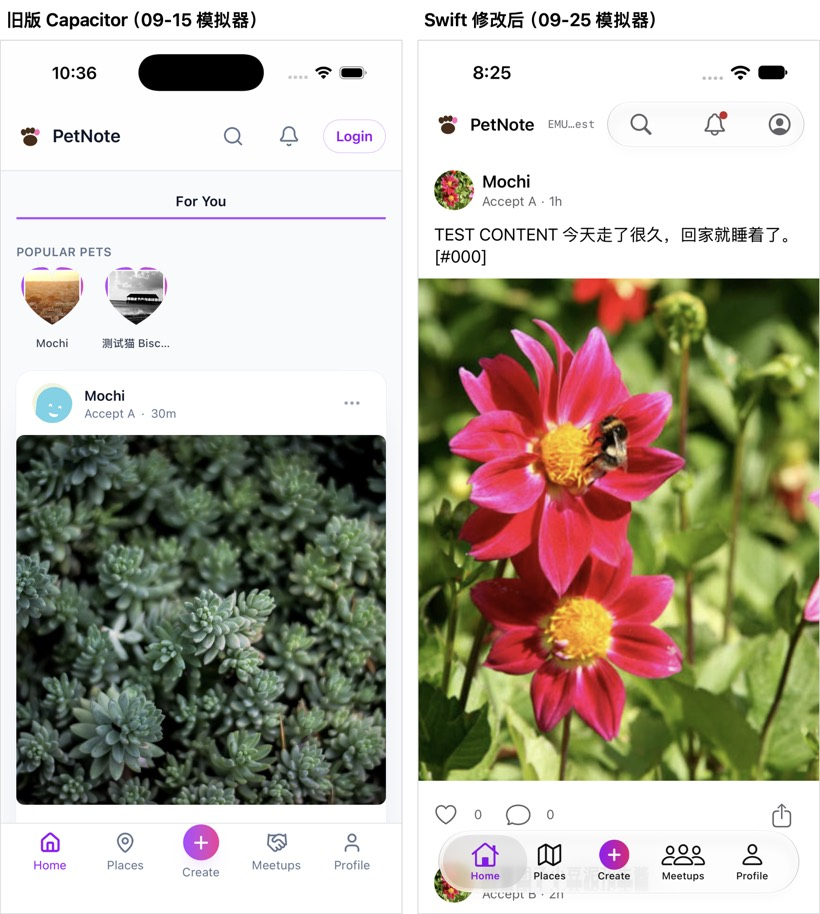
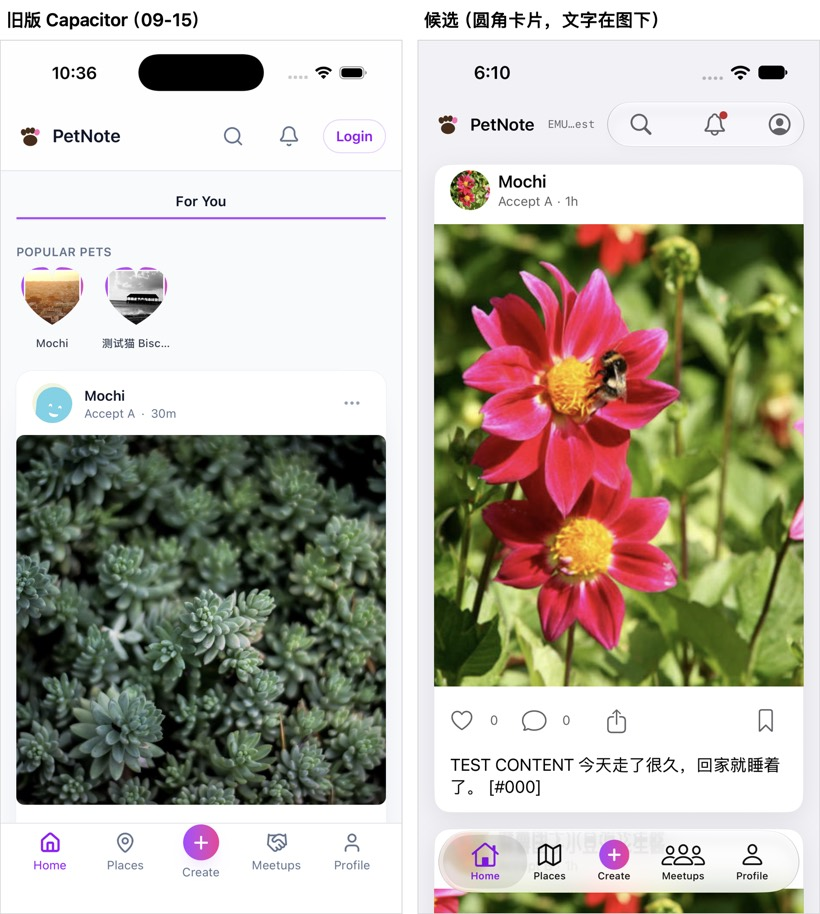
Record the de44ce5 candidate: what it holds, how it was verified, and where it stopped
The visual comparison now has every figure from de44ce5 (regression,
reduce motion and transparency, SE at default and AX5, light and dark,
edge states, cold starts, package and icon audit), the touch figures
from the instrument-only commits after it, Apple's answer on unselected
tab colours, and the share button findings. STATUS gets the candidate,
the install that stopped at a locked phone, and what to look at.

diff --git a/ios-native/docs/visual-parity.md b/ios-native/docs/visual-parity.md
@@ -1,69 +1,85 @@
-# 视觉对照：旧版 PetNote 与 Swift 版（2026-09-25）
+# 视觉对照：旧版 PetNote 与 Swift 版（2026-09-26，候选 `de44ce5`）
 
-依据的旧版资源：旧版分支 `feature/ios-polish-round2` 上的原文件（`public/paw-icon.svg`、`src/components/PawIcon.tsx`、Capacitor 的 `AppIcon`/`Splash`/`LaunchScreen.storyboard`、`BottomNav.tsx`、`Navbar.tsx`、`PostActions.tsx`、`PostIdentity.tsx`、`timeAgo.ts`），以及 09-15/16 在模拟器上截的旧版画面（`PetNote-review-20260908/evidence/`）。
+依据的旧版资源：旧版分支 `feature/ios-polish-round2` 上的原文件（`public/paw-icon.svg`、`src/components/PawIcon.tsx`、`AuthShell.tsx`、`PostCard.tsx`、`PostActions.tsx`、`PostIdentity.tsx`、`BottomNav.tsx`、`Navbar.tsx`、`timeAgo.ts`，以及 Capacitor 的 `AppIcon`、`Splash`、`LaunchScreen.storyboard`），加上 09-15/16 在模拟器上截的旧版画面（`PetNote-review-20260908/evidence/`）。
+
+本轮按你 09-26 的决定恢复了登录外壳、圆角卡片、操作栏上的收藏和顶栏头像；09-25 修过的 Logo、启动画面、图标风格、帖子头部仍保留。
 
 ## 1. 之前说的“原图逐像素一致”只覆盖了什么
 
-只覆盖了 **App 图标这一个文件**：Swift 包里编译出来的 120×120 图标，等于图标源图缩小后的结果；而这张源图和旧版 Capacitor 的图标是同一个文件（md5 `91a40ffb…`，从 09-10 起没换过）。
+只覆盖 **App 图标这一个文件**：包里编译出的 120×120 图标，等于图标源图缩小后的结果。这张源图和旧版 Capacitor 的图标是同一个文件（md5 `91a40ffb…`，从 09-10 起没换过）。
 
-它**没有**覆盖：手机桌面上实际显示的样子、启动画面、App 里的品牌 Logo、任何界面图标。这几项当时都没有核对，不能从“图标一致”推出来。
+它**不覆盖**手机桌面上实际显示的样子、启动画面、App 内 Logo、界面图标。
 
-## 2. 你点名的三处
+## 2. 桌面图标
 
-### 桌面图标
-- 源文件、声明方式（单张 1024、不透明、只有默认外观）两边完全一样，Swift 包里确实带着这张图。
-- 你手机上这个 Swift App **在 09-22 之前装过两次没有图标的版本**（09-18 的原型、09-20 的 `4ba1c57`，图标是 09-22 才加进工程的）。iOS 覆盖安装时有时会沿用旧的图标缓存。
-- 我没有截手机桌面（会拍到别的 App），所以**不知道你看到的具体是什么**。需要你告诉我：Swift 版的图标是（a）空白或灰色的默认图标，还是（b）也是爪印，只是看起来和旧版不一样。如果是（a），重启一次手机通常就会刷新。
+- **最终包的图标配置**（`de44ce5` 的审计包里核对）：包里 `Info.plist` 的图标名是 `AppIcon`，图标文件列的是 `AppIcon60x60`；`Assets.car` 里有从 `AppIcon-1024.png` 生成的 1024×1024 图标；包里 120×120 的图标和源图缩小后逐像素一致（平均差 0.00/255，最大差 0）。源图 md5 `91a40ffb…`，和旧版 Capacitor 分支上的 `AppIcon-512@2x.png` 相同。品牌爪印也在包里（矢量加三个尺寸）。
+- **包里的配置和资源都对；你看到新旧图标不一样，原因还没确定。** 一个候选原因是：这台手机上的 Swift App 在 09-22 之前装过两次没有图标的版本（09-18 的原型、09-20 的 `4ba1c57`），iOS 覆盖安装后有可能继续显示缓存里的旧图标。这只是推测，没有验证，重启手机也不算修复。我没有截手机桌面（会拍到别的 App），不会用卸载清数据的办法来“解决”。
+- 需要你告诉我：装上这个候选以后，Swift 版的图标是空白、灰色的默认图标，还是爪印但看着不一样。
 
-### App 内 Logo、启动画面（有明确偏离，已修）
-| | 旧版 | 手机上现在的 Swift（`931d911`） | 修改后 |
-| --- | --- | --- | --- |
-| 品牌 Logo | 棕色爪印、粉色趾头（`PawIcon`） | **换成了系统的紫色爪印符号**，不是品牌 Logo | 原 SVG 逐字节复制进来（md5 `8624d4af…`），原色显示、不着色 |
-| 首页顶栏 | 爪印 + 「PetNote」在左 | 只有文字 | 爪印 28 点 + 名字，在左；无障碍大字号下只显示爪印（名字留给读屏和长按放大），否则会把右边的按钮挤进溢出菜单 |
-| 启动画面 | 白底，爪印居中 | **空白**（工程里没有启动图） | 白底爪印，大小位置和旧版量过一致（153×173 点，中心 190,442） |
-| App 内闪屏 | 爪印 64 点 + 渐变「PetNote」 | 紫色系统爪印 + 转圈 | 爪印 64 点 + 渐变「PetNote」 + 转圈 |
-| 首页空状态 | 爪印 36 点 | 灰色系统爪印 | 爪印 36 点 |
+## 3. 启动画面
 
-启动画面有一个要说明的地方：旧版那张启动图是 2732×2732 的大画布，**iOS 拒绝显示它**。模拟器日志里写着超过了启动画面的 25 MB 上限，结果 App 启动时是黑屏。所以我没有照搬那张图，而是用同一个爪印文件，按旧版显示出来的大小和位置重新排版。旧版 App 在 iOS 27 上可能也有同样的黑屏问题，这一点我没有在你手机上验证。
+- **旧版启动图为什么不能照搬**：iOS 27.0 模拟器的系统日志（SplashBoard 进程）在每次启动时报错：`XBLaunchStoryboardErrorDomain` code 6，“Estimated size (29900800) is over limit (25000000)”。随后把 App 列入启动快照黑名单（“rejected due to the app being denylisted”），启动时显示黑屏。
+- **资源规格**：旧版 `Splash.imageset` 在 1x、2x、3x 三个位置放的是同一张 2732×2732 的 RGB PNG（每份 129 KB），`LaunchScreen.storyboard` 用一个铺满屏幕（aspect-fill）的图片视图显示它。按 2732 × 2732 × 4 字节算，解码后约 29.9 MB，和报错里的估算值一致。
+- 旧版 App 在你手机上会不会也遇到这个问题，**没有验证，不下结论**。
+- **现在的做法**：不改动、不重新导出那张大图。用原样复制进来的品牌爪印 SVG，在系统背景色上居中显示（浅色白底、深色黑底）。爪印的大小和位置按旧版的效果量过：棕色部分都是 153×173 点，中心都在 (190, 442)。
+- **冷启动**（`de44ce5` 的构建，模拟器）：浅色冷启动 3 次、深色 1 次，每次连续抓帧。浅色是白底爪印 → App 内闪屏（爪印加渐变字）→ 首页转圈 → 首页；深色是黑底爪印 → 首页转圈 → 首页（这次没抓到 App 内闪屏，恢复登录比抓帧间隔快）。都没有出现黑白闪屏。代码里没有人为等待，闪屏只在恢复登录状态期间出现。之前固定白底的启动画面，在深色模式下会先白一下，这一轮已改。对照图：[启动画面](visual-parity/launch.jpg)（旧版布局、候选浅色、候选深色）。
 
-### 界面图标（有明确偏离，已修）
-| | 旧版 | 手机上现在的 Swift | 修改后 |
-| --- | --- | --- | --- |
-| 底栏 | 线条图标，选中紫色；中间「Create」是紫粉渐变圆形「+」 | 系统自动换成**实心黑色**；中间是黑色方块「Post」 | 线条图标，选中紫色；渐变圆形「+」；文字「Create」（中文「发布」不变） |
-| 顶栏按钮 | 搜索、铃铛，灰色 | 铃铛、搜索、账号，**紫色**，顺序不同 | 搜索、铃铛、账号，灰色 |
-| 帖子操作 | 线条图标，一种灰；已赞**红色**实心心形 | 偏小；已赞**紫色** | 放大到同一尺寸、同一种灰；已赞红色实心（只有心形变红，旁边数字保持灰色，保证文字对比度） |
-| 评论图标 | 圆形气泡 | 方形气泡 | 圆形气泡 |
-| 帖子头部 | 「Accept A · 30m」 | 只有「31 min, 44 sec」，而且每秒刷新一次 | 「Accept A · 13m」，时间格式逐条照旧版（中文「13分钟前」） |
+## 4. 这一轮对照（左旧版，右候选，模拟器截图）
 
-同屏对照图：[首页](visual-parity/feed.jpg)、[登录页](visual-parity/login.jpg)、[启动画面](visual-parity/launch.jpg)（左边旧版，右边修改后，都是模拟器）；[默认字号和最大字号](visual-parity/feed-ax5.jpg)。测试版顶栏中间那个缩短的「EMU…est」是测试环境标签，正式版里没有。
+| 位置 | 旧版 | 候选 |
+| --- | --- | --- |
+| 登录、注册、找回密码 | 紫粉渐变背景，白色圆角卡片，小爪印 +「PetNote」，标题，表单 | 同样的结构，三页共用一个外壳。渐变延伸到状态栏和键盘下面，卡片留在安全区内，可以滚动，键盘弹出时由系统保证输入框可见，跟随动态字体放大。登录标题用网页原文（「Log in to your account / 登录你的账号」）。注册页和找回密码页保留系统导航栏和返回手势，不重复显示栏上的标题 |
+| 首页和宠物主页的帖子 | 灰底上的白色圆角卡片；头部 → 图片 → 操作栏 → 文字 | 同样的结构（16 点圆角、细边框、淡阴影，深色模式下是深灰卡片）；详情页是帖子自己的整页，保持整页宽 |
+| 帖子操作栏 | 心形、评论、分享在左，书签在右；已赞红色实心、已收藏紫色实心 | 同样的布局和状态。收藏和详情页「…」菜单里的收藏共用一份状态，每页批量读取一次 |
+| 顶栏账号入口 | 显示自己的头像 | 显示自己的头像；没有头像、头像加载失败时显示占位图（DiceBear 生成的 SVG 默认头像这个 App 画不了，也按“没有头像”处理） |
 
-## 3. 分类
+对照图（候选一侧都是 `de44ce5` 上截的）：[首页](visual-parity/feed.jpg)、[登录页](visual-parity/login.jpg)、[收藏前后](visual-parity/saved.jpg)、[深色模式](visual-parity/dark.jpg)、[小屏 iPhone SE 的默认字号和最大字号](visual-parity/small-screen.jpg)、[启动画面](visual-parity/launch.jpg)。测试版顶栏中间缩短显示的「EMU…est」是测试环境标签，正式版里没有。
 
-**保持一致**：App 图标文件；品牌 Logo（修改后）；品牌色（紫 `#9810FA`、粉 `#E60076`，从左到右渐变）；底栏五项的顺序和名称；顶栏布局和按钮顺序；帖子头部的内容和时间格式；帖子操作的图标风格和已赞状态；启动画面。
+## 5. 底栏未选中项的颜色：苹果答复 iOS 26 起不再支持自定义
 
-**换成了系统做法**（原因）：
-- 分享图标：纸飞机 → 系统分享图标。它打开的是 iOS 自己的分享面板，iOS 就用这个图标。
-- 底栏：整条白底 → iOS 26 系统的悬浮玻璃底栏。**未选中项的颜色由系统决定**，是黑色；我试了两种设置方法都不生效，已实测。系统画的返回箭头也是黑色。
-- 聚会图标：握手 → 三个人。系统图标库里没有握手。
-- 地点图标：地图钉 → 折叠地图。系统的钉子图标一个太细，另一个看起来像游戏摇杆。
-- 登录页的 English/中文 切换 → 在 iOS 设置里单独给这个 App 设语言。
-- 闪屏的呼吸动画 → 系统转圈。一直循环的动画会让自动化测试永远等不到界面静止。
+- 旧版未选中项是灰色，候选是**黑色**（实测像素 14,14,14），顶栏和帖子上我们自己画的图标是灰色 `#636366`。影响是：底栏的黑色图标和文字，比页面上其他图标重一些，见 [收藏前后](visual-parity/saved.jpg) 的底部。选中项的紫色是能设置的，已经设了。
+- **接口还在**：`UITabBar.unselectedItemTintColor`（iOS 10 起）；`UITabBarItemAppearance.normal.iconColor` 和 `titleTextAttributes`（iOS 13 起）。iOS 27 SDK 的头文件里没有标注不可用；SwiftUI 没有设置未选中颜色的修饰符。
+- **我试过的做法**：在底栏创建之前，用外观代理设置这两个属性，在当前的 SwiftUI `TabView` 下都没有生效。
+- **苹果的说法**（开发者论坛，苹果开发者技术支持 DTS 工程师的答复，原文）：
+  - 2025 年 11 月：“Setting the `unselectedItemTintColor` isn't compatible with Liquid Glass tab bars. We recommend you move away from the `UIAppearance` APIs.”（[thread 793700](https://developer.apple.com/forums/thread/793700)）。同一帖里另一位开发者用 UIKit 的 `UITabBarController` 也复现了：iOS 18.5 上未选中是设定的颜色，iOS 26.0 上是黑/灰。
+  - 2026 年 3 月：“As of iOS 26, customization of unselected tab items is no longer supported, instead you can apply a tint color for selected item.”（[thread 818449](https://developer.apple.com/forums/thread/818449)）
+  - 所以这一条不是我实现得不对，而是 iOS 26 起的新底栏（Liquid Glass）不接受未选中颜色。依据是苹果工程师在论坛上的答复，不是正式文档；iOS 27 上我没有找到新的接口。
+- **没有做的**：没有用私有 API，没有去修改视图层级里的系统底栏，也没有为了颜色重写导航。
+- **剩下的选择**（需要你决定，我建议第一种）：
+  1. **保留系统默认**。这是 iOS 26 起所有用系统底栏的 App 的样子，选中项仍是品牌紫色。
+  2. 自己画一个底栏代替系统的。颜色能完全按旧版，但要自己补上系统底栏白送的东西（最大字号、VoiceOver、滚动时收起等），属于重做导航，不在这次授权范围内。
+  （还有一个办法本来是让整个 App 退回旧版系统外观，即 `UIDesignRequiresCompatibility`。苹果文档写的是“Temporarily use this key…”和“The system ignores this key when you build for iOS 27 or later”（[文档](https://developer.apple.com/documentation/bundleresources/information-property-list/uidesignrequirescompatibility)）。我们用 iOS 27 SDK 构建，所以这个办法用不了。）
 
-**还没做完的占位，或者和旧版不一样、需要你决定的**：
-1. **登录页外壳**：旧版是紫粉渐变背景、白色卡片、「Log in to your account」标题、输入框里的图标、显示密码的小眼睛、Google 按钮。Swift 现在只有一张白底表单。Google 按钮要等 Google 登录接通（B2）。
-2. **帖子卡片样式**：旧版是灰底上的圆角卡片，文字在图片**下面**，卡片右上角有「…」；Swift 是整屏宽，文字在图片**上面**，「…」只在详情页有。
-3. **书签**：旧版在操作栏右边；Swift 收进了「…」菜单。点赞数：旧版在操作栏下面一行（「9 likes」），Swift 在心形旁边。我没找到当初这样改的理由记录。
-4. **顶栏右边**：旧版登录后显示你自己的头像，点它进个人页；Swift 是一个通用的头像图标，点开是账号菜单。
-5. **首页顶部**：「For You」标签和「人气萌宠」一行，代码在 `wip/feed-extras`，还没放回来（原因见 STATUS「仍未解决」第 2 条）。
-6. 主人名字：旧版可以单独点进主人主页；Swift 是点整行打开帖子。
+## 6. 还和旧版不一样、或者发现的问题
 
-## 4. 这批修改的状态
+- 点赞数和评论数显示在图标旁边；旧版在操作栏下面另起一行（「9 likes」）。
+- 帖子文字前没有加粗的主人名（头部已经有主人名，而且很多测试按帖子文字定位帖子）；旧版有。
+- 卡片右上角没有「…」菜单，只在详情页有；旧版每张卡片都有。
+- 品牌爪印是棕色，在深色背景上比较暗。旧版网页也一样；按你的要求不改颜色。
+- **原有问题**：宠物主页卡片上的心形按钮点了没有反应（代码里传的是空操作）。这个候选里没修。
+- **原有问题**：路由规则写的是宠物主页隐藏底栏，实际显示了底栏。测过：滚到底时最后一条帖子和它的视频都在底栏上方，能点到。
+- 首页顶部的「For You」和「人气萌宠」一行还没放回来（代码在 `wip/feed-extras`）。
+- **新发现的原有问题**：手指按在帖子的分享图标上慢慢往上拖，列表不动；快划正常。模拟器实测，同样一次 200 点的慢拖：从分享按钮开始，列表移动 0 点（测了两次）；从心形按钮或卡片旁边的空白开始，移动 190 点；从分享按钮快划，移动 528 点。慢拖之后也没有弹出分享菜单。分享按钮 09-26 之前就在操作栏里（在最右边），这次按网页挪到了评论旁边，所以更容易按到。原因还没查明，这个候选没有改它。点赞测试原来就是在屏幕正中慢拖，卡片改版后正好按在这个按钮上，已改成从卡片旁边的空白开始拖。
 
-- 在分支 `feature/ios-native-prototype` 上，没合并，**没装到你手机**。你手机上仍是 `931d911`，也就是上面“手机上现在的 Swift”那一列。
-- 单元测试 870 条全过，包括设计守卫、颜色对比度、中文字符串、新加的时间格式测试。
-- 完整回归一共跑了三轮，每一轮的失败都查到了原因再修，没有靠重跑关掉任何一条：
-  - 第一轮失败 8 条：6 条是这批改动自己造成的（最大字号下账号按钮被挤掉、4 条视频测试读不到探针、1 条测试还按旧名字「Post」找底栏）；1 条是我没启动上传替身服务；1 条是测试点到了另一只同名的 Mochi。
-  - 第二轮失败 5 条：还是导航栏空间不够。用元素树量出来：默认字号下正中位置只剩 26 点，被系统整个丢掉；最大字号下铃铛和账号被收进了「More」溢出菜单。于是把测试环境标签挪到正中，名字显示与否改由栏外判断。
-  - 第三轮（产品代码的最终版本）：143 条界面测试，18 条按设计跳过（真机专用，或需要先打开系统设置），失败 1 条。那条视频播放本身正常，是拍照取样时视频一半在底栏下面。已经带进现成的修正（`c25574e`），整个视频套件 14 条全过，日志里能看到它把视频从 439–942 点挪到了 212–715 点再拍。
-  - 需要打开系统设置的两条（减弱动态效果、降低透明度），打开设置后单独跑，都通过了，跑完已把设置恢复。
-- 没验证：深色模式和各档字号下的视觉，没有逐张用眼睛核对（自动化测试会检查文字有没有被截断、按钮够不够大、对比度够不够）；真机上的样子要装包之后才能看。
+## 7. 候选 `de44ce5` 的验证
+
+App 代码最后一次改动是 `39b0f25`；之后的 `168d0ae`、`e4390e2`、`de44ce5` 三个提交只改界面测试。下面除了“手指能点中的范围”（单独说明）以外，每一项都是在 `de44ce5` 上跑的，没有拿别的版本的通过结果来凑。
+
+- **完整回归**（`scripts/regression.sh all`，iPhone 17 模拟器 / iOS 27.0，本地测试后端，跑之前重启并重新灌了种子数据）：单元测试 883 条全过；界面测试执行 149 条，131 条通过，18 条按设计跳过，0 条失败。跳过的 18 条：16 条只在真机上跑，2 条（减少动效、降低透明度）要先改模拟器设置，见下一条。两个触控测量套件按脚本规定不在回归里，见“手指能点中的范围”。
+- **减少动效、降低透明度**：在模拟器上把这两个设置打开后单独跑，2 条都通过；跑完已经关回去。
+- **小屏和最大字号**：iPhone SE（375×667）在默认字号和最大字号下，顶栏里的账号按钮都在，没有被挤进「More」；最大字号下账号菜单能正常打开和使用。iPhone 17 上结果一样。
+- **浅色、深色逐屏**：登录、注册、找回密码、首页、点赞加收藏后、帖子详情、宠物主页，两种模式各截一遍，逐张看过。深色模式下，登录页和找回密码页上还不能点的灰色按钮，看起来和能点的按钮差别不大；能点时会变成紫粉渐变，还分得清。这是原有样式，这一轮没改。
+- **边缘状态**：翻页失败、刷新失败、很长的中文宠物名、没有帖子的宠物页，都截图看过。未登录就是登录页。没有头像的情况：首页顶栏测试确认没有头像时显示占位图，设了头像后显示头像，删掉头像后又回到占位图。
+- **收藏、头像、Create**：收藏按钮和 Create 的可点范围至少 44×44，读屏名称分别是「Save / Remove from saved」「Create」；账号入口的读屏名称是「Account」。这几项是按控件自己报告的范围检查的，不是手指实际能点中的范围。VoiceOver 实际怎么读，要你在手机上听。
+- **手指能点中的范围**：这是模拟器上的合成点击，不是真机手指。测量工具先用已知尺寸校准，通过了才出数。
+  - 账号头像按钮约 52 宽 × 44 高。高度落在工具误差（±0.2 点）以内，记为“未确认”，不记“合格”。和换头像之前一样。
+  - 心形约 79 × 56，评论宽约 75，都达标。
+  - 这组测量是在 `71cf366` 上跑的。`de44ce5` 之后的 `82cd223`、`71cf366` 两个提交只改了测量工具，App 代码和 `de44ce5` 完全相同。
+  - 改工具的原因：卡片改版后，工具里有两处还按旧布局写。一处是校准要求帖子文字在操作栏上面，所以第一次校准没通过，没有出数。另一处是找评论按钮右边界时点开了旁边的分享菜单，工具不会关，把评论宽度读成了 44。我逐点直接点过，评论按钮一直响应到它和分享按钮之间的空隙中间。
+- **底栏不挡内容**：宠物页滚到底，最后一条帖子的文字和视频都在底栏上方，视频的静音按钮能点到。首页有 210 条种子帖子，滚到最后一条没有专门测；首页上的测试都要求心形按钮完整露出、不在底栏下面才点。
+- **状态不回退**：点赞（包括连点五次、刷新、别的账号改了数、帖子被删）、收藏（操作栏和「…」菜单一致，重开 App 后仍然一致）、评论数、换账号不串状态，这些界面测试都通过；解除屏蔽的两处竞态由单元测试覆盖，也都通过。
+- **返回手势**：拖出一段再拖回去取消，评论框里的字还在；完整返回，回到首页。
+- **CI**：`de44ce5` 上 4 个检查全部通过（2 个 `ci`，2 个 `ios-native`）。之后只改测量工具的 `82cd223` 也是 4 个全过。
+- **装机包**：用 `de44ce5` 构建，`scripts/build-testcloud-package.sh --release-check` 退出码 0：44 项通过，0 项失败，0 项受阻，两条提醒。一条是这个测试包里也带着本地模拟器的配置文件（项目 `petnote-test`，之前的包也有）；另一条是签名描述文件 10 月 2 日到期，还剩 6 天。连的是 `petnote-devtest`，Bundle ID 是 `dev.local.petnote.native`，你的 iPhone 在描述文件里；包里没有私钥和服务端密钥；14 个故障注入开关一个都没有。正式版的包里没有任何测试开关，也没有非生产配置。审计过的包原样另存在 `build/pkg-de44ce5`（本地，不进仓库）。
+
+这一轮之前的几次结果，按时间顺序记在这里，不和上面混用：`e4390e2` 的完整回归有 4 条点赞测试失败，原因是测试还按旧卡片（文字在图上面）找心形按钮，找到的是下一张卡片的；按新布局改了配对以后还剩 3 条，原因是测试从屏幕正中慢拖，正好按在分享按钮上，列表没动（见第 6 节）。`de44ce5` 把这两处都改了，点赞套件 7 条全过，然后才跑上面的完整回归。

diff --git a/STATUS.md b/STATUS.md
@@ -4,7 +4,43 @@
 审查目录里的 `evidence/ios-native/acceptance-status.md` 是**第一阶段验收矩阵**（按
 `SWIFT-CLIENT-ACCEPTANCE.md` 条目编号记证据），不是状态表；功能迁移进度只记在这里。
 
-**更新** 2026-09-25 中午 · 分支 `feature/ios-native-prototype` · 装机候选 `931d911`（已装到手机；之后只有测试、CI 和文档的提交） · PR [#204](https://github.com/renrenmimi/PetNote/pull/204)（Draft，不合并）
+**更新** 2026-09-26 早上 · 分支 `feature/ios-native-prototype` · 组合装机候选 `de44ce5`（视觉修复 + 屏蔽名单修复；已构建并审计，**还没装到手机**，手机上仍是 `931d911`） · PR [#204](https://github.com/renrenmimi/PetNote/pull/204)（Draft，不合并）
+
+---
+
+## 组合装机候选 `de44ce5`（2026-09-26）
+
+**状态：包已构建、审计通过，还没装到手机。** 到安装这一步时查了一次手机：锁屏（`passcodeRequired: true`），连接状态是“已配对”而不是“已连接”。按你的要求停在这里，没有反复尝试。手机上仍然是 `931d911`。
+
+**这个候选里有什么**（和手机上的 `931d911` 比）：
+- 09-25 的视觉修复：旧版爪印 Logo（原文件逐字节复制）、用爪印排的启动画面、线条图标和统一的灰色、红色的已赞、帖子头部「主人 · 13m」、底栏「Create」。
+- 你 09-26 的四个决定：登录、注册、找回密码恢复渐变背景、白卡片和 Logo；首页和宠物页恢复圆角卡片、文字在图下；收藏按钮放回帖子操作栏；顶栏账号入口显示自己的头像，没有或加载失败才显示占位图。
+- 启动画面跟随系统深浅色，深色模式不再先白一下。
+- 屏蔽名单的两处修复（`d40376f`、`57821e4`，就是上面“另外几件事”里说的那两处）。
+- 另外只改测试的：视频测试的停靠修正、触控工具的校准修正、点赞测试按新卡片布局找按钮。候选之后又有两个只改测量工具的提交（`82cd223`、`71cf366`），不影响装机包。
+
+**验证（除了账号头像的触控测量，全部在 `de44ce5` 上跑，没有拿别的版本的结果来凑）**：完整回归单元测试 883 条全过，界面测试 149 条执行、131 条通过、18 条按设计跳过、0 条失败；减少动效、降低透明度 2 条通过；iPhone SE 默认字号和最大字号下顶栏按钮都在；浅色、深色逐屏看过；边缘状态看过；冷启动没有黑白闪屏；CI 4 个检查全过；装机包审计退出码 0，图标配置和资源核对无误。账号头像按钮手指能点中约 52 × 44（高度在工具误差内，记“未确认”），这项测在只改了测量工具的 `71cf366` 上，App 代码和 `de44ce5` 相同。逐项和截图见 [`ios-native/docs/visual-parity.md`](ios-native/docs/visual-parity.md) 第 7 节。在这之前，`e4390e2` 的完整回归有 4 条点赞测试失败，原因和修法也记在那里。
+
+**新发现的原有问题（这个候选没改）**：手指按在帖子的分享图标上慢慢往上拖，列表不动；快划正常。分享按钮以前在操作栏最右边，这次按网页挪到了评论旁边，更容易按到。模拟器实测，同样的慢拖从分享按钮开始列表移动 0 点，从心形按钮或卡片旁边的空白开始移动 190 点。原因没查明，记为待办。
+
+**需要你决定（一项）**：底栏没选中的图标是系统的黑色，旧版是灰色。苹果开发者技术支持在官方论坛上答复过，iOS 26 起系统底栏不再支持改没选中项的颜色，只能改选中项（已经是品牌紫色）。我建议保留系统默认；另一个办法是自己画底栏，属于重做导航，不在这次授权范围内。原文和出处见文档第 5 节。
+
+**待办（不影响这个候选）**：宠物主页卡片上的心形点了没反应（原有问题，要给宠物页接上点赞，首页和详情页各有一套点赞逻辑，接第三处之前先定怎么复用）；宠物主页按规则应隐藏底栏，实际显示；分享图标上慢拖列表不动。
+
+**手机解锁并连上线以后，我接着做的（你已经授权安装，不再问）**：
+1. 装之前，在手机上截一张首页、一张登录页（`931d911`）。每次截图前先启动 PetNote，确认前台是它。
+2. 覆盖安装 `build/pkg-de44ce5/PetNote.app`。只针对 `dev.local.petnote.native`，数据保留；旧的 Capacitor App 不碰，也不退出它的账号。
+3. 装之后，截首页、登录页。登录页用测试版自己的启动参数进入，只影响 Swift 测试版的测试账号。
+4. 跑真机验收测试。跑完删掉测试结果，包括 Xcode 自动录的屏。
+5. 把审计过的原包重新装回去，用测试账号登录，停在首页。
+
+**装好以后请你看这几处**：
+1. 首页：圆角卡片，头部、图片、操作栏、文字的顺序；顶栏左边是爪印加「PetNote」。
+2. 登录页：紫粉渐变背景、白卡片、小爪印加「PetNote」、标题「Log in to your account」（你手机的语言顺序是英文在前，所以显示英文；改成中文后是「登录你的账号」）。只看，不用登录，也不要退出旧 App 的账号。
+3. 帖子操作栏：心形、评论、分享在左，书签在右；点书签变紫色实心，再到帖子详情的「…」菜单里看，应该显示「Remove from saved」。
+4. 账号头像：顶栏最右边。测试账号如果设过真实照片，这里显示照片；如果用的是网站默认生成的那种头像（SVG 格式，这个 App 画不了），会显示灰色占位图，这是预期的。测试账号现在是哪一种，我没有去测试项目里查。
+5. 一条完整浏览：首页往下滑几条 → 点一条帖子进详情 → 点赞 → 从左边缘拖回首页 → 列表还停在原来的位置、心形保持已赞。顺便在分享图标上试一下慢慢往上拖。
+6. 之前那 5 项（中文输入、返回手势两条路径、草稿、VoiceOver、中文界面）照旧；VoiceOver 这次再加三个：书签按钮读不读「Save」，头像读不读「Account」，底栏中间读不读「Create」。
 
 ---
 
